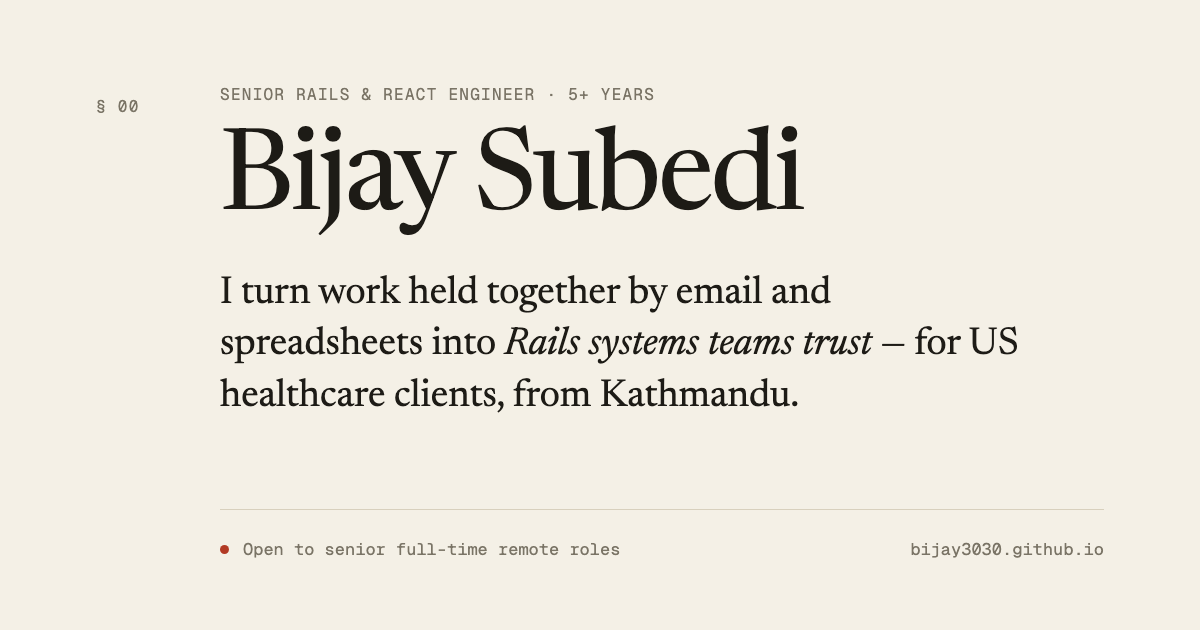
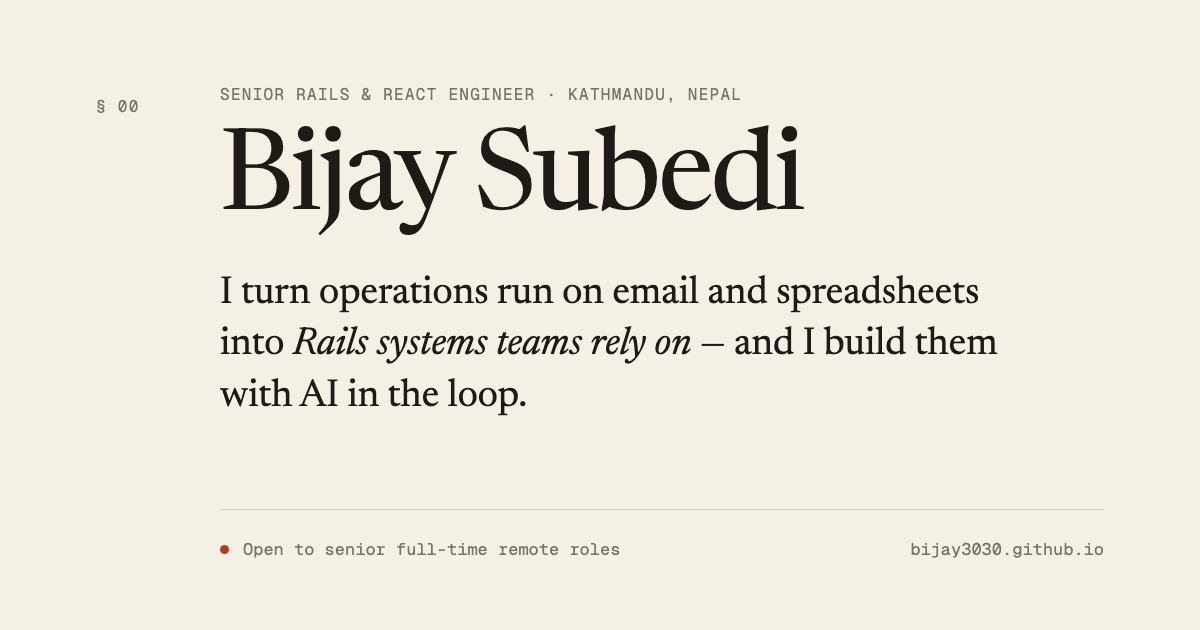
Research-backed headline and About
Headline follows the patterns strong engineers and recruiters use:
title and location in the label, then one specific promise sentence
(niche + outcome + how), in the style of "I make Ruby apps faster".

About becomes a short story: Associate in 2021 to Senior 16 months
later, who the work serves, then how I work — mapping the work,
explicit states, frontier models orchestrated to write features, and
tests and review before anything ships.

Share image updated; repetition check still clean.

diff --git a/src/data/site.ts b/src/data/site.ts
@@ -5,7 +5,7 @@ export const profile = {
   role: 'Senior software engineer',
   jobTitle: 'Senior Software Engineer',
   // Title, stack, and years: what a recruiter scans for first.
-  tagline: 'Senior Rails & React engineer · 5+ years',
+  tagline: 'Senior Rails & React engineer · Kathmandu, Nepal',
   employer: { name: 'Truemark', url: 'https://www.truemark.dev/' },
   location: 'Kathmandu, Nepal',
   timezone: 'Asia/Kathmandu',
@@ -14,7 +14,7 @@ export const profile = {
   resume: 'resume.pdf', // relative to the site base
   // One sentence: the niche, who it's for, and where it's built from.
   statement:
-    'I turn work held together by email and spreadsheets into Rails systems teams trust — for US healthcare clients, from Kathmandu.',
+    'I turn operations run on email and spreadsheets into Rails systems teams rely on — and I build them with AI in the loop.',
   availability: 'Open to senior full-time remote roles',
   overlap: '4+ hours with US Eastern · full EU workday',
   links: [
@@ -24,8 +24,8 @@ export const profile = {
 };
 
 export const about = [
-  'I start by mapping how the work actually moves — who touches what, and where it breaks. Then I model it as explicit states, automate every step between them, and record who did what, because one lost file or wrong price breaks trust.',
-  'AI is part of how I build: I orchestrate frontier models to write features, then validate their output with tests and review before anything ships.',
+  'I joined Truemark in 2021 as an associate engineer and was leading client applications as a senior 16 months later. Most of that work serves US healthcare clients, where one lost file or wrong price breaks trust.',
+  'I start by mapping how the work actually moves — who touches what, and where it breaks — then model it as explicit states and automate every step between. I orchestrate frontier models to write features, and every change ships only after tests and review.',
 ];
 
 export type Architecture = {
@@ -358,7 +358,7 @@ export const testimonials: {
   {
     // DRAFT written for Ananta to review — not his words until he approves them.
     quote:
-      'Bijay built Helios and Quoting with our team. He took workflows our project managers ran by hand and turned them into systems they rely on — and he understood our business before he wrote a line of code.',
+      'Bijay built Helios and Quoting with our team. He took workflows our project managers ran by hand and turned them into systems they depend on — and he understood our business before he wrote a line of code.',
     name: 'Ananta Raj Lamichhane',
     title: 'Senior Software Engineer, Language Scientific',
     relationship: 'Client on Helios and Quoting',
